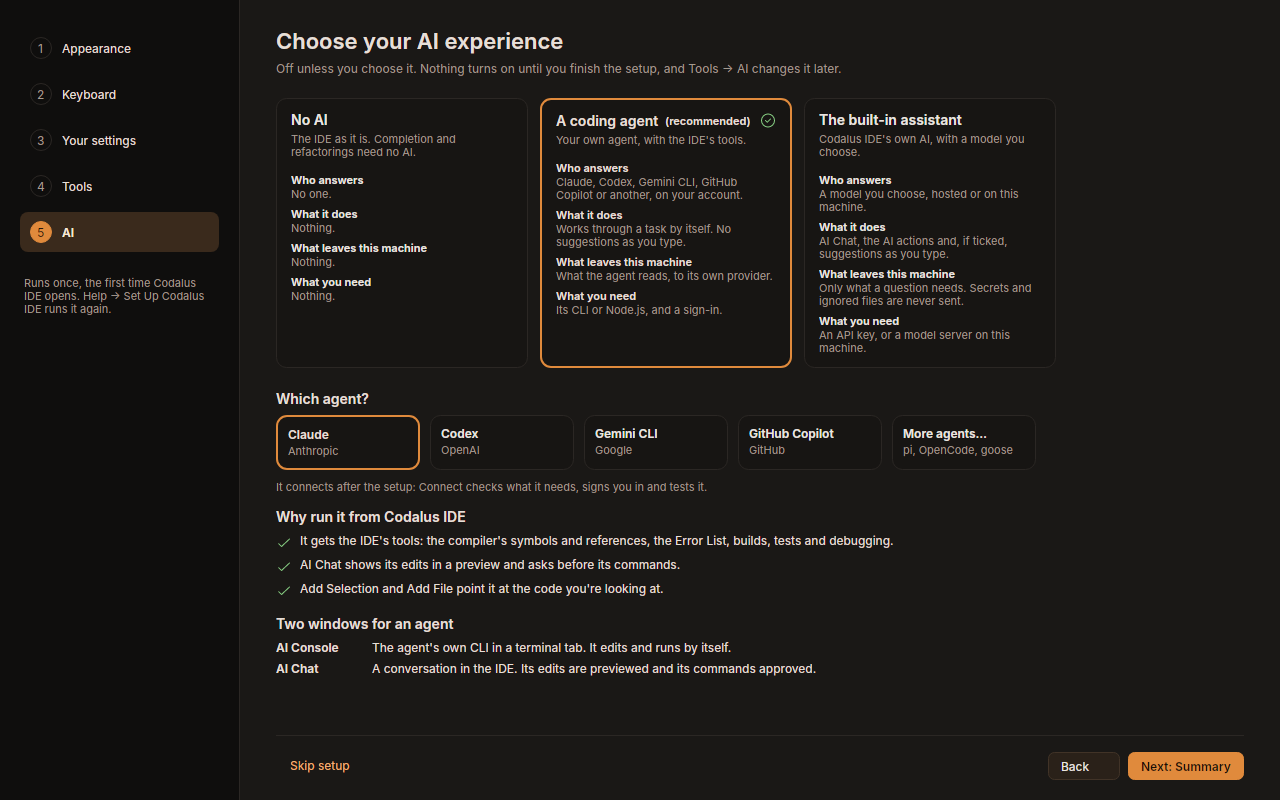
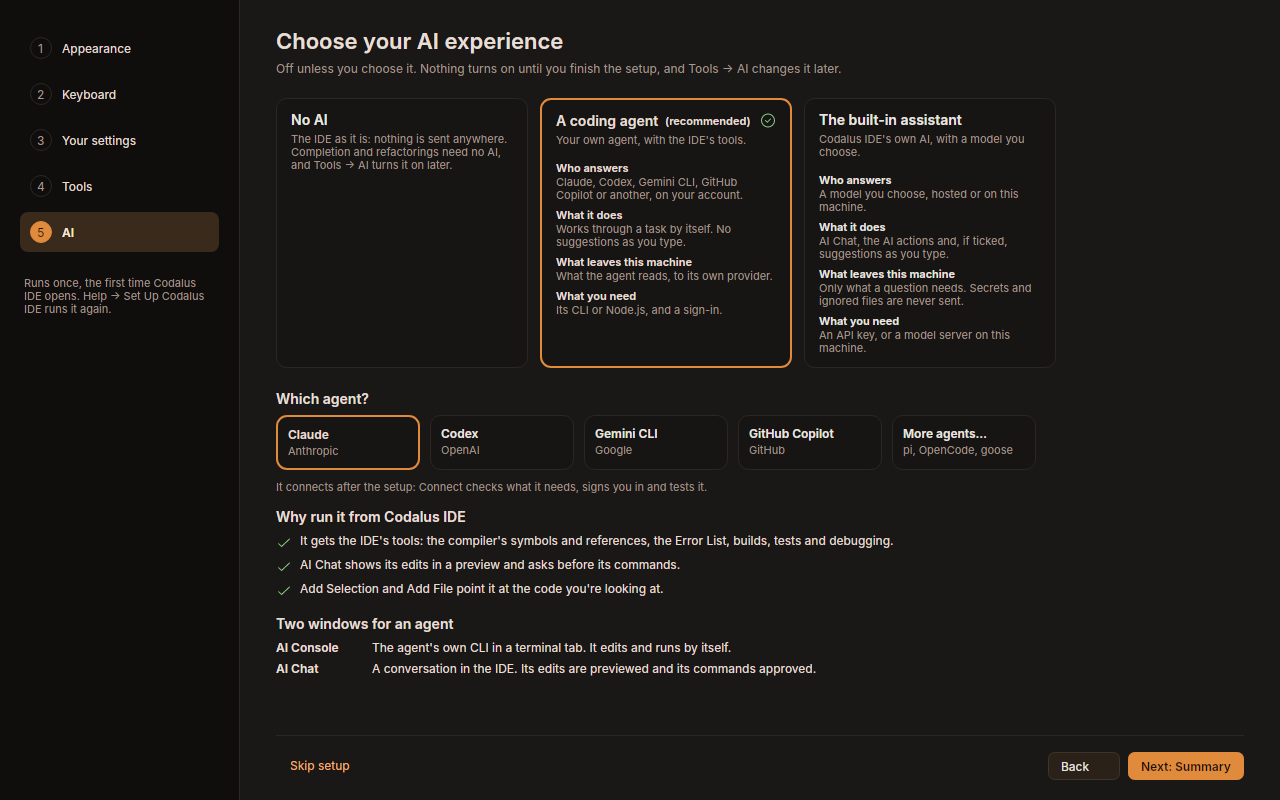
The setup's No AI card is one line, without "No one" and "Nothing"
The maintainer: the card's four facts ("Who answers: No one", then
"Nothing" three times) were noise. No AI now has its title and a line:
the IDE as it is, nothing sent anywhere, completion and refactorings need
no AI, Tools > AI turns it on later. The coding agent and the built-in
assistant keep their four facts, which are what they're compared by.

The website's setup-ai.png is from a local smoke run of this build.

Changed region(s): [[0.2188, 0.1562, 0.4062, 0.375]]

diff --git a/tests/Codalus.Shell.Tests/FirstRunSetupTests.cs b/tests/Codalus.Shell.Tests/FirstRunSetupTests.cs
@@ -757,9 +757,10 @@ public sealed class FirstRunSetupTests
         // Three ways, No AI chosen, each with the same four facts so they compare.
         Assert.Equal(["No AI", "A coding agent", "The built-in assistant"], model.AiPaths.Select(p => p.Title));
         Assert.True(model.AiPaths[0].IsSelected);
-        Assert.All(model.AiPaths, p => Assert.Equal(["Who answers", "What it does", "What leaves this machine", "What you need"], p.Facts.Select(fact => fact.Label)));
+        Assert.Empty(model.AiPaths[0].Facts); // No AI is a line, without "No one" and "Nothing" four times
+        Assert.Contains("nothing is sent", model.AiPaths[0].Description, StringComparison.Ordinal);
+        Assert.All(model.AiPaths.Skip(1), p => Assert.Equal(["Who answers", "What it does", "What leaves this machine", "What you need"], p.Facts.Select(fact => fact.Label)));
         Assert.All(model.AiPaths, p => Assert.All(p.Facts, fact => Assert.False(string.IsNullOrWhiteSpace(fact.Value))));
-        Assert.Equal("Nothing.", model.AiPaths[0].Facts[2].Value);
         Assert.Contains("its own provider", model.AiPaths[1].Facts[2].Value, StringComparison.Ordinal);
         Assert.Contains("never sent", model.AiPaths[2].Facts[2].Value, StringComparison.Ordinal);
         Assert.All(model.AiPaths, p => Assert.All(p.Facts, fact => Assert.InRange(fact.Value.Length, 1, 80))); // a line or two each, not a paragraph
@@ -772,7 +773,8 @@ public sealed class FirstRunSetupTests
         Assert.Single(window.GetVisualDescendants().OfType<TextBlock>(), t => t.IsEffectivelyVisible && t.Text == "(recommended)");
         Assert.Equal(SetupAiPath.None, model.AiPath);
         Assert.True(cards[0].IsFocused);
-        Assert.All(cards, c => Assert.Contains("Who answers:", AutomationProperties.GetHelpText(c), StringComparison.Ordinal));
+        Assert.Equal(model.AiPaths[0].Description, AutomationProperties.GetHelpText(cards[0]));
+        Assert.All(cards.Skip(1), c => Assert.Contains("Who answers:", AutomationProperties.GetHelpText(c), StringComparison.Ordinal));
         Assert.False(window.FindControl<StackPanel>("AiAgentPanel")!.IsEffectivelyVisible);
         Assert.False(window.FindControl<StackPanel>("AiAssistantPanel")!.IsEffectivelyVisible);
         Snapshot(f, "first-run-setup-ai-none");

diff --git a/src/Codalus.Shell/ViewModels/SetupViewModel.cs b/src/Codalus.Shell/ViewModels/SetupViewModel.cs
@@ -453,13 +453,9 @@ public sealed class SetupViewModel : ObservableObject
         var needs = Localizer.Get("msg.firstRun.aiFactNeeds", "What you need");
         AiPaths =
         [
-            new(SetupAiPath.None, Localizer.Get("msg.firstRun.aiNone", "No AI"), Localizer.Get("msg.firstRun.aiNoneDescription", "The IDE as it is. Completion and refactorings need no AI."),
-            [
-                new(who, Localizer.Get("msg.firstRun.aiNoneWho", "No one.")),
-                new(does, Localizer.Get("msg.firstRun.aiNoneDoes", "Nothing.")),
-                new(leaves, Localizer.Get("msg.firstRun.aiNoneLeaves", "Nothing.")),
-                new(needs, Localizer.Get("msg.firstRun.aiNoneNeeds", "Nothing.")),
-            ], SelectAiPath),
+            // No AI has nothing to compare ("No one", "Nothing" four times was noise): its line says it all.
+            new(SetupAiPath.None, Localizer.Get("msg.firstRun.aiNone", "No AI"), Localizer.Get("msg.firstRun.aiNoneDescription", "The IDE as it is: nothing is sent anywhere. Completion and refactorings need no AI, and Tools → AI turns it on later."),
+            [], SelectAiPath),
             new(SetupAiPath.Agent, Localizer.Get("msg.firstRun.aiAgent", "A coding agent"), Localizer.Get("msg.firstRun.aiAgentDescription", "Your own agent, with the IDE's tools."),
             [
                 new(who, Localizer.Get("msg.firstRun.aiAgentWho", "Claude, Codex, Gemini CLI, GitHub Copilot or another, on your account.")),
@@ -1051,7 +1047,7 @@ public sealed class SetupViewModel : ObservableObject
 
     // ------------------------------------------------------------------ AI
 
-    /// <summary>No AI, a coding agent, or the built-in assistant, each with the same facts to compare.</summary>
+    /// <summary>No AI (a line, no facts), a coding agent, or the built-in assistant, the last two with the same facts to compare.</summary>
     public IReadOnlyList<SetupAiPathOption> AiPaths { get; }
 
     /// <summary>Why to run an agent from Codalus IDE instead of a plain terminal (ADR 0092, 0095), shown with the agents: three short lines; the user guide has the rest.</summary>

diff --git a/src/Codalus.Shell/Infrastructure/SmokeTest.Setup.cs b/src/Codalus.Shell/Infrastructure/SmokeTest.Setup.cs
@@ -89,7 +89,7 @@ internal sealed partial class SmokeTest
             // AI (ADR 0096): the three ways with the same facts each. A coding agent, with Claude, is the website's
             // picture; then the step is put back as it was, so the summary's button connects nothing.
             await model.NextAsync().ConfigureAwait(true);
-            Check(model.IsAi && model.AiPaths.Count == 3 && model.AiPaths.All(p => p.Facts.Count == 4), "the AI step compares three ways");
+            Check(model.IsAi && model.AiPaths.Count == 3 && model.AiPaths.Skip(1).All(p => p.Facts.Count == 4), "the AI step compares three ways");
             Check(!model.AiChanged, "the AI step shows what the settings have");
             var ai = model.AiChoice;
             model.AiPaths.Single(p => p.Path == SetupAiPath.Agent).SelectCommand.Execute(null);

diff --git a/docs/user-guide/getting-started.md b/docs/user-guide/getting-started.md
@@ -100,14 +100,14 @@ The first time Codalus IDE starts for a user data folder, **Set up Codalus IDE**
 2. **Keyboard**: the keyboard scheme: **Default** (the classic IDE's keys: F5 debugs, F6 builds, Ctrl+Q searches), VS Code's, ReSharper's or Emacs. Your own key bindings go over any of them ([Keyboard shortcuts](settings.md#keyboard-shortcuts)).
 3. **Your settings**: import from VS Code (its settings and key bindings, found in its user folder), from a `.vssettings` file another IDE exported, or from a file exported with Tools → Export Settings ([Moving your settings](settings.md#moving-your-settings)); or turn on [Settings Sync](settings.md#settings-sync) with a folder or a Git repository. When the folder or repository already has settings, they replace this machine's, without asking.
 4. **Tools**: the .NET SDK and git, found or offered. **Install…** shows exactly what would run; nothing installs until you choose **Install** (or **Run in Terminal**, or **Open Page**). Help → Check Environment lists everything else. Under **Your system**, two choices, both off: **Open Folders from the File Manager** (Open with Codalus IDE on a folder's right-click) and **Open Solutions and Project Files** (`.sln`, `.slnx`, `.slnf`, `.csproj`, `.vbproj`, `.fsproj` open in Codalus IDE). Leaving the step registers what you checked, for you alone ([System integration](settings.md#system-integration)); Skip setup doesn't.
-5. **AI**: your AI experience, as three cards with the same four facts each, so you can compare them: who answers, what it does, what leaves this machine, and what you need.
+5. **AI**: your AI experience, as three cards. **No AI** is the IDE as it is: nothing is sent anywhere. The other two carry the same four facts, so you can compare them: who answers, what it does, what leaves this machine, and what you need.
 
-   | | No AI | A coding agent | The built-in assistant |
-   |---|---|---|---|
-   | Who answers | No one. | Claude, Codex, Gemini CLI, GitHub Copilot or another, on your account. | A model you choose, hosted or on this machine. |
-   | What it does | Nothing. | Works through a task by itself. No suggestions as you type. | AI Chat, the AI actions and, if ticked, suggestions as you type. |
-   | What leaves this machine | Nothing. | What the agent reads, to its own provider. | Only what a question needs. Secrets and ignored files are never sent. |
-   | What you need | Nothing. | Its CLI or Node.js, and a sign-in. | An API key, or a model server on this machine. |
+   | | A coding agent | The built-in assistant |
+   |---|---|---|
+   | Who answers | Claude, Codex, Gemini CLI, GitHub Copilot or another, on your account. | A model you choose, hosted or on this machine. |
+   | What it does | Works through a task by itself. No suggestions as you type. | AI Chat, the AI actions and, if ticked, suggestions as you type. |
+   | What leaves this machine | What the agent reads, to its own provider. | Only what a question needs. Secrets and ignored files are never sent. |
+   | What you need | Its CLI or Node.js, and a sign-in. | An API key, or a model server on this machine. |
 
    The cards are short on purpose; the details are in [AI assistance](ai.md). Without AI, completion, refactorings and quick fixes still work: they are the compiler's. An agent works in [AI Console](ai.md#ai-console) or [AI Chat](ai.md#external-agents-acp), and what it reads goes to its provider under that provider's terms: Codalus IDE checks what it asks the IDE for, not what it reads by itself. The built-in assistant sends only what passes Codalus IDE's own checks ([What is never sent](ai.md#what-is-never-sent)).
 

diff --git a/docs/adr/0096-the-first-run-setup-asks-about-ai.md b/docs/adr/0096-the-first-run-setup-asks-about-ai.md
@@ -38,14 +38,14 @@ The setup is a welcome page (a first start only), five steps and a summary (`Set
 
 ### The AI step
 
-Three cards, each with the same four facts so they read side by side: who answers, what it does, what leaves this machine, what you need.
+Three cards. No AI has a line: the IDE as it is, nothing sent anywhere, completion and refactorings need no AI, Tools → AI turns it on later. The other two carry the same four facts so they read side by side: who answers, what it does, what leaves this machine, what you need. (The first build gave No AI the four facts too, "No one" and "Nothing" three times; the maintainer called it noise, 2026-11-12.)
 
-| | No AI | A coding agent | The built-in assistant |
-|---|---|---|---|
-| Who answers | No one | The agent's own program, with the user's account there | A model of the provider the user chooses |
-| What it does | Nothing; completion and refactorings are the compiler's | Works through a task by itself, in AI Console or AI Chat; no suggestions as you type | AI Chat with agent mode, the AI actions, and suggestions as you type when ticked |
-| What leaves | Nothing | What the agent reads, to its own provider (ADR 0079) | Only through `AiService`'s checks (ADR 0062) |
-| What it needs | Nothing | Node.js or its CLI, and a sign-in or key | A key, or a model server on this machine |
+| | A coding agent | The built-in assistant |
+|---|---|---|
+| Who answers | The agent's own program, with the user's account there | A model of the provider the user chooses |
+| What it does | Works through a task by itself, in AI Console or AI Chat; no suggestions as you type | AI Chat with agent mode, the AI actions, and suggestions as you type when ticked |
+| What leaves | What the agent reads, to its own provider (ADR 0079) | Only through `AiService`'s checks (ADR 0062) |
+| What it needs | Node.js or its CLI, and a sign-in or key | A key, or a model server on this machine |
 
 - **A coding agent is the recommended way** (the maintainer, 2026-11-12), as AI Console is the recommended window for one (ADR 0095): its card says "(recommended)" beside its title. Recommended isn't preselected.
 - **No AI is chosen unless the user chooses another.** An agent or a provider is chosen, never assumed: neither list has a preselected entry.
